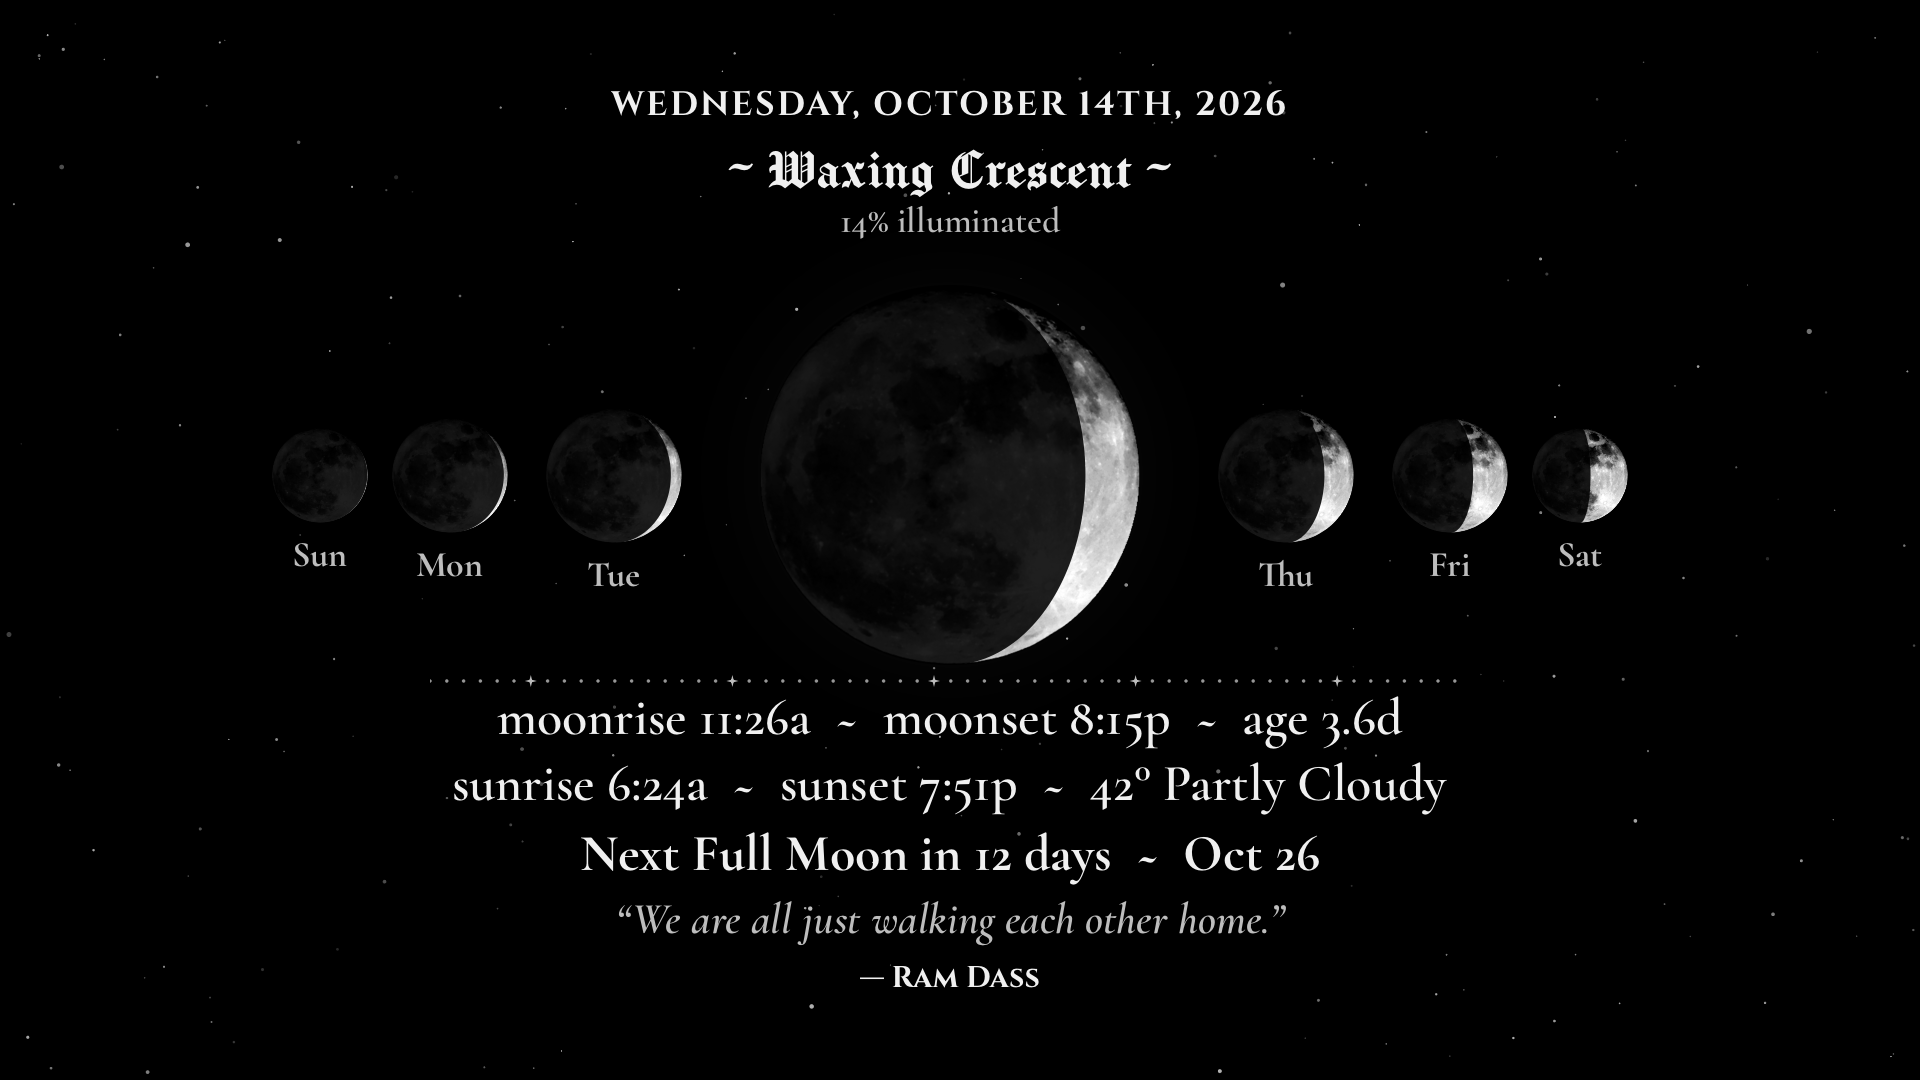
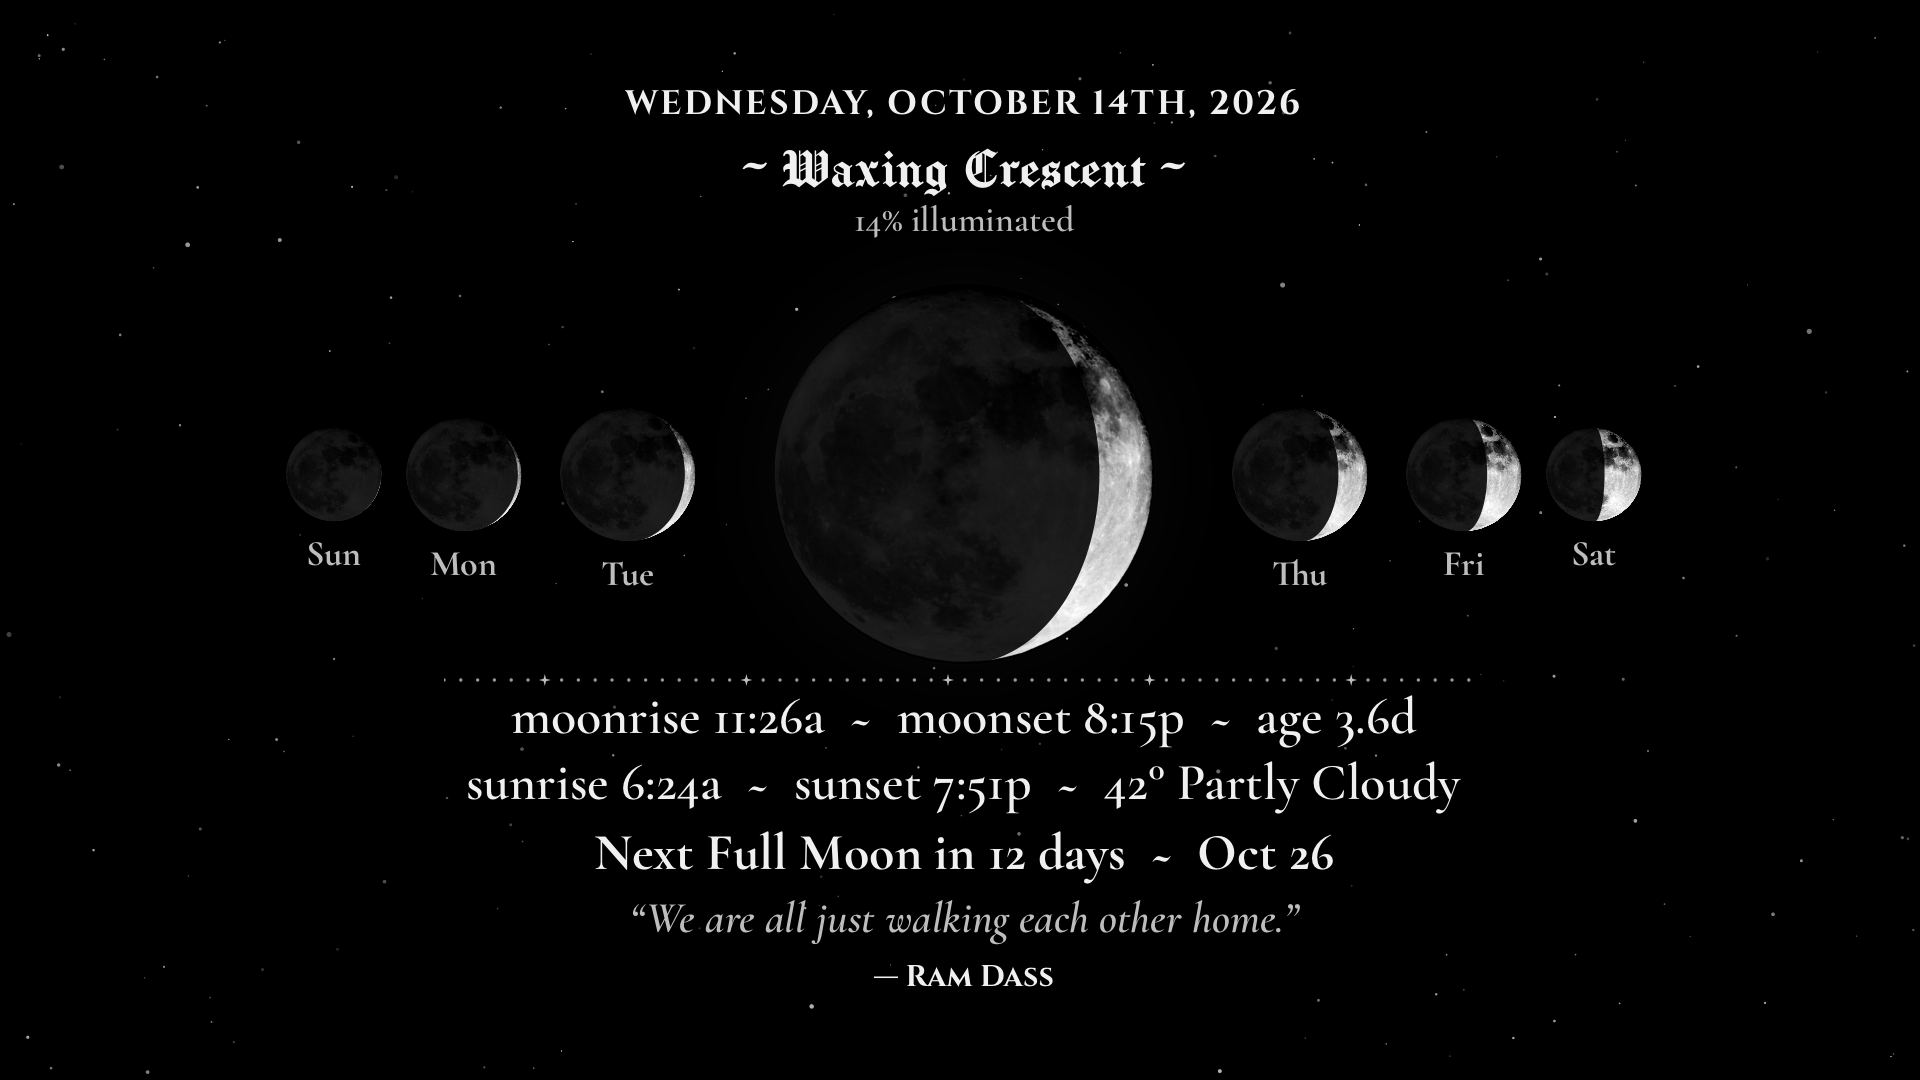
Moon layout: use the full-resolution original moon photograph
The author's own photo, of which the Pi's 512 px moon_full.png is a
copy, cropped to the disc at its native 1288 px and levels-stretched
over the disc. The hero moon is about 860 px across at 4K, so it is now
drawn from more pixels than it shows instead of upscaled 1.7x.

diff --git a/README.md b/README.md
@@ -50,8 +50,10 @@ with no Pi at all. Click anywhere on the dashboard to come back to settings; Men
 - `HomeDashboardTV/App`: the polling store, Bonjour discovery and the Keychain.
 - `HomeDashboardTV/UI`: the dashboard, the moon, and the settings panel.
 - `HomeDashboardTV/Resources/Fonts`: Cinzel, Cormorant Garamond and Manufacturing Consent
-  from HomeDashboard's `fonts/` (SIL OFL; each licence beside its font), and the moon
-  photograph (`MoonPhoto`) is HomeDashboard's `assets/moon_full.png`.
+  from HomeDashboard's `fonts/` (SIL OFL; each licence beside its font). The moon
+  photograph (`MoonPhoto`) is the author's own full moon: the full-resolution original of
+  the Pi's `assets/moon_full.png`, cropped to the disc at its native 1288 px with the
+  disc's levels stretched, enough for the hero moon at 4K without upscaling.
 - `HomeDashboardTV/Resources/demo-snapshot.json` and the test fixture are real output of the
   Pi's route over HomeDashboard's dummy data.
 
